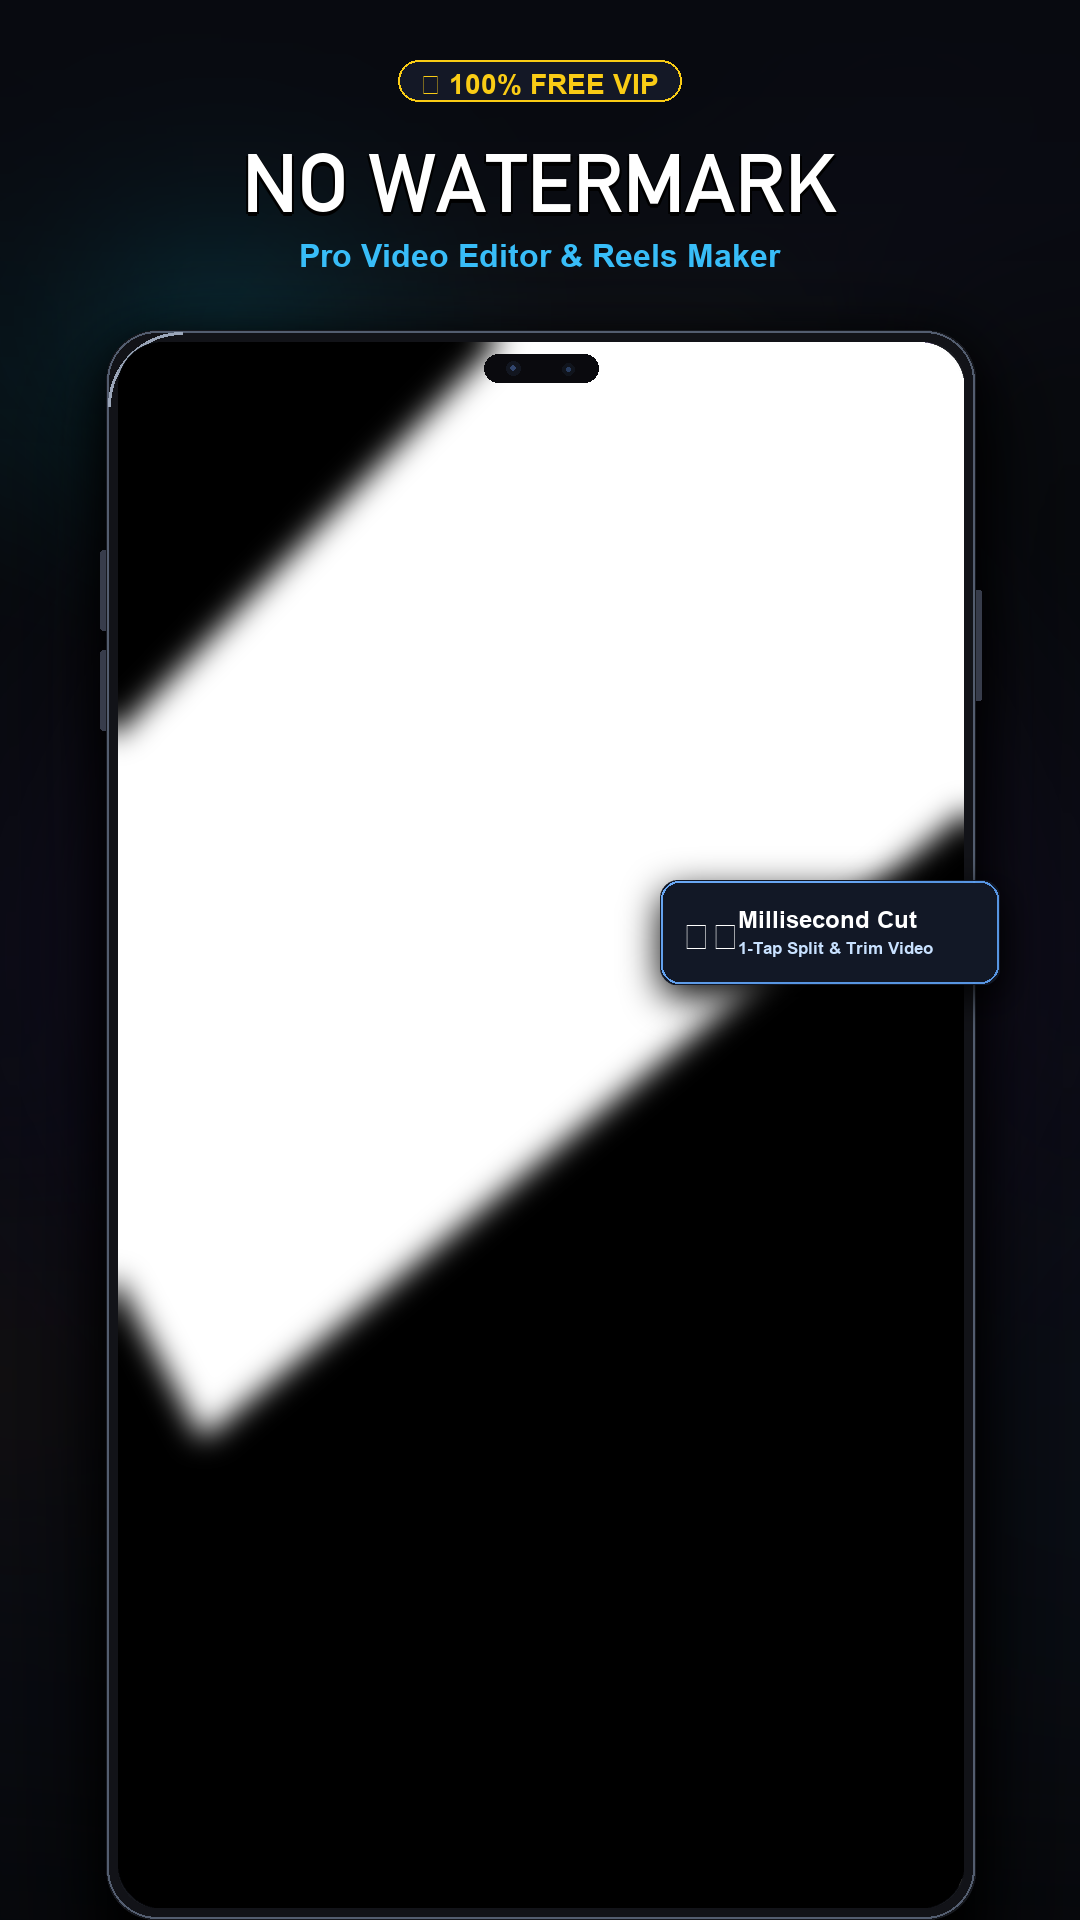
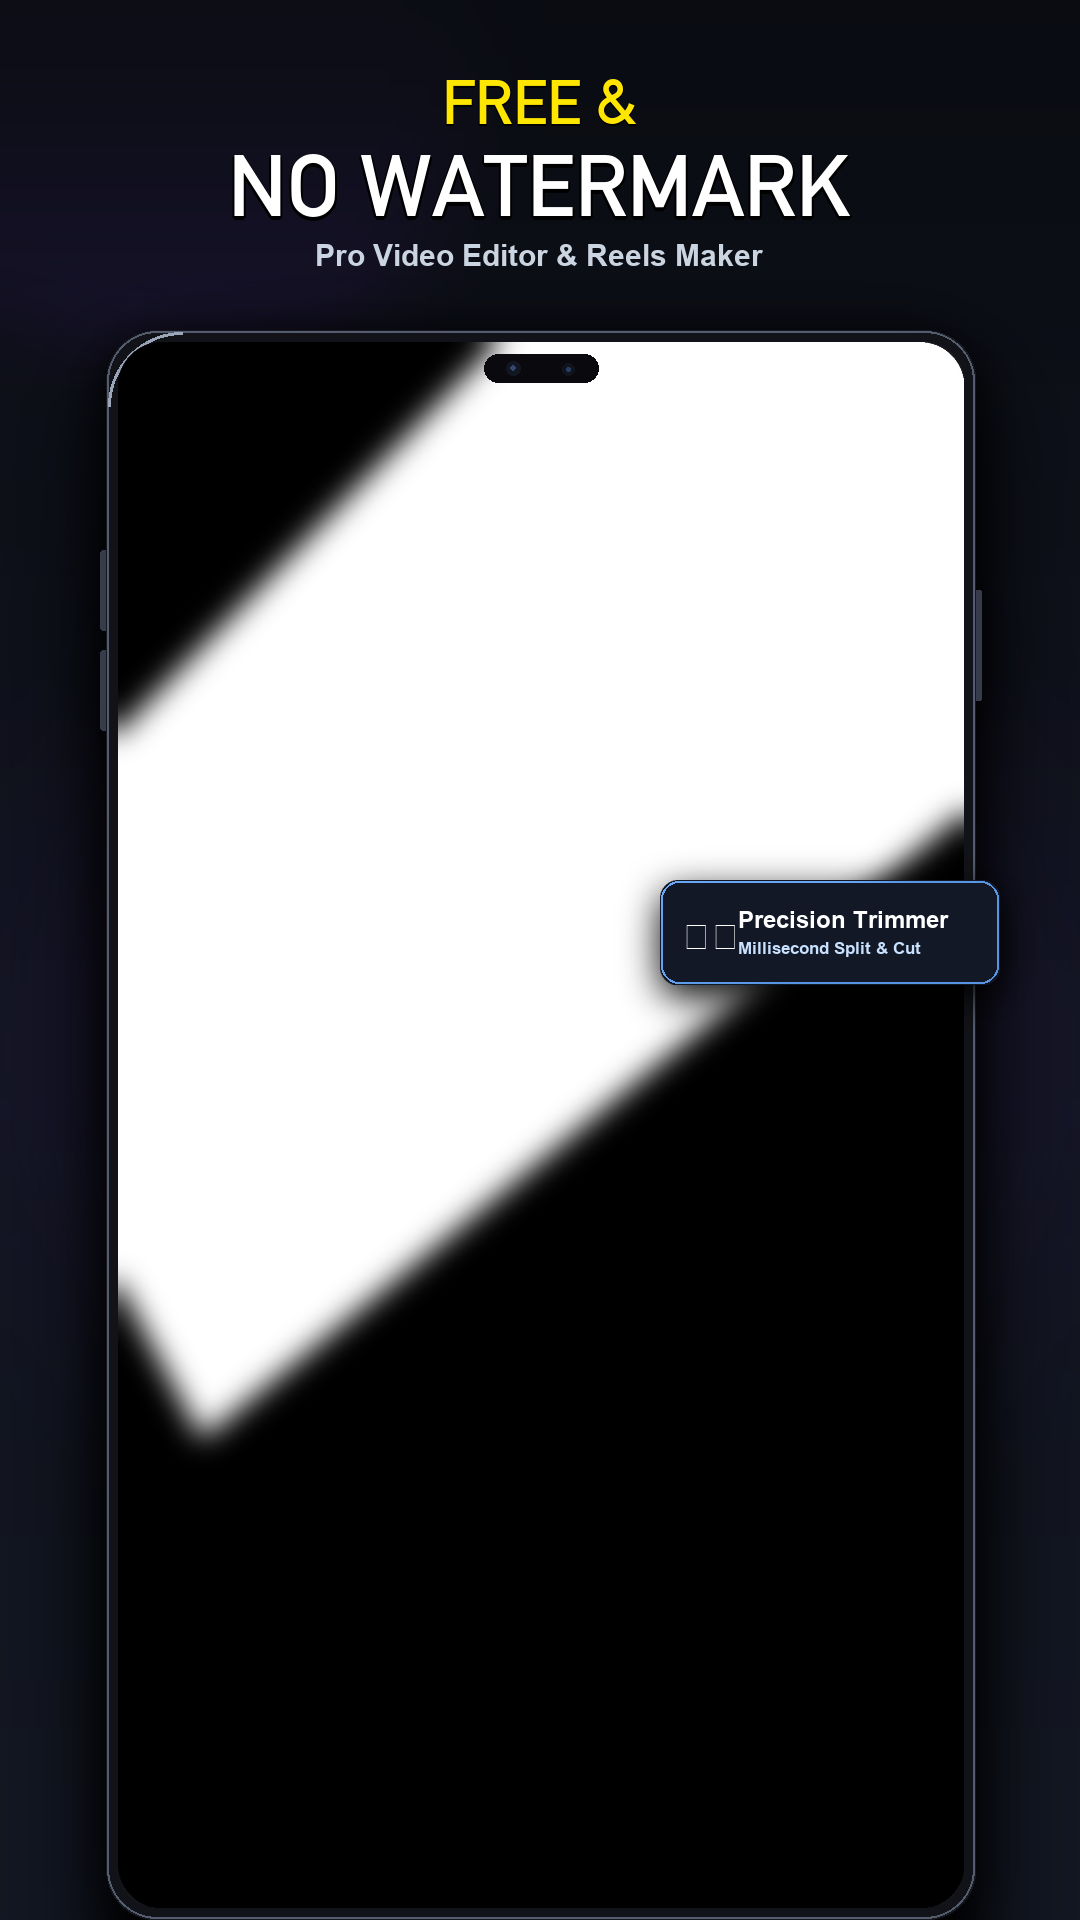
feat(store): generate exact YouCut-style Play Store screenshots with accent top line, massive 86pt white headline, real device frames, and floating callouts

Changed region(s): [[0.2139, 0.0312, 0.7944, 0.1562], [0.6722, 0.4688, 0.8861, 0.5]]

diff --git a/play_store_assets/generate_youcut_exact_posters.py b/play_store_assets/generate_youcut_exact_posters.py
@@ -1,0 +1,314 @@
+import os, sys, math
+from PIL import Image, ImageDraw, ImageFilter, ImageFont, ImageEnhance
+
+BRAIN_DIR = '/Users/pritamsharma/.gemini/antigravity/brain/1924d82f-8c85-4f77-96d0-28de4bd5bc32'
+OUT_DIR = '/Users/pritamsharma/Downloads/video_editor_app/play_store_assets/screenshots'
+DOWNLOADS_OUT = '/Users/pritamsharma/Downloads/VidCut_PlayStore_Assets/screenshots'
+ASSETS_DIR = '/Users/pritamsharma/Downloads/video_editor_app/play_store_assets'
+DOWNLOADS_ROOT = '/Users/pritamsharma/Downloads/VidCut_PlayStore_Assets'
+
+os.makedirs(OUT_DIR, exist_ok=True)
+os.makedirs(DOWNLOADS_OUT, exist_ok=True)
+
+FONT_TITLE = '/System/Library/Fonts/Supplemental/DIN Alternate Bold.ttf'
+FONT_SUB = '/System/Library/Fonts/Supplemental/Arial Bold.ttf'
+FONT_BADGE = '/System/Library/Fonts/Supplemental/Arial Bold.ttf'
+
+CANVAS_W, CANVAS_H = 1080, 1920
+
+def fit_crop(img, tw, th):
+    sw, sh = img.size
+    scale = max(tw / float(sw), th / float(sh))
+    nw, nh = int(sw * scale), int(sh * scale)
+    scaled = img.resize((nw, nh), Image.Resampling.LANCZOS)
+    cx = (nw - tw) // 2
+    cy = (nh - th) // 2
+    return scaled.crop((cx, cy, cx + tw, cy + th))
+
+def create_youcut_bg(accent_glow_color):
+    # Dark charcoal / obsidian background (Signature YouCut dark theme)
+    bg = Image.new('RGBA', (CANVAS_W, CANVAS_H), (13, 15, 23, 255))
+    
+    # Smooth vertical mesh gradient
+    for y in range(CANVAS_H):
+        r = int(12 + (20 - 12) * (y / CANVAS_H))
+        g = int(14 + (24 - 14) * (y / CANVAS_H))
+        b = int(22 + (36 - 22) * (y / CANVAS_H))
+        ImageDraw.Draw(bg).line([(0, y), (CANVAS_W, y)], fill=(r, g, b, 255))
+        
+    # Volumetric ambient backlight glow behind phone
+    glow_layer = Image.new('RGBA', (CANVAS_W, CANVAS_H), (0, 0, 0, 0))
+    d = ImageDraw.Draw(glow_layer)
+    cx, cy = 540, 1050
+    radius = 680
+    r_val, g_val, b_val, a_max = accent_glow_color
+    for i in range(35, 0, -1):
+        cur_r = int(radius * (i / 35.0))
+        alpha = int(a_max * (1.0 - (i / 35.0))**1.7)
+        d.ellipse([cx - cur_r, cy - cur_r, cx + cur_r, cy + cur_r], fill=(r_val, g_val, b_val, alpha))
+    glow_layer = glow_layer.filter(ImageFilter.GaussianBlur(40))
+    bg = Image.alpha_composite(bg, glow_layer)
+    
+    # Secondary ambient fill at top
+    top_glow = Image.new('RGBA', (CANVAS_W, CANVAS_H), (0, 0, 0, 0))
+    td = ImageDraw.Draw(top_glow)
+    td.ellipse([200 - 300, 100 - 300, 200 + 300, 100 + 300], fill=(r_val, g_val, b_val, int(a_max * 0.25)))
+    top_glow = top_glow.filter(ImageFilter.GaussianBlur(50))
+    bg = Image.alpha_composite(bg, top_glow)
+    
+    # Gradient fade at top for punchy text legibility
+    fade = Image.new('RGBA', (CANVAS_W, CANVAS_H), (0, 0, 0, 0))
+    f_draw = ImageDraw.Draw(fade)
+    for y in range(420):
+        a = int(230 * (1.0 - (y / 420.0)**1.3))
+        f_draw.line([(0, y), (CANVAS_W, y)], fill=(10, 12, 18, a))
+    bg = Image.alpha_composite(bg, fade)
+    return bg
+
+def build_youcut_phone(screen_img, target_w=870, target_h=1590, radius=50, bezel=12):
+    phone_w = target_w
+    phone_h = target_h
+    inner_w = phone_w - (bezel * 2)
+    inner_h = phone_h - (bezel * 2)
+    inner_r = radius - (bezel // 2)
+    
+    # Scale real device screenshot to inner screen
+    scaled_screen = fit_crop(screen_img, inner_w, inner_h)
+    
+    # Mask
+    screen_mask = Image.new('L', (inner_w * 2, inner_h * 2), 0)
+    ImageDraw.Draw(screen_mask).rounded_rectangle([0, 0, inner_w * 2, inner_h * 2], radius=inner_r * 2, fill=255)
+    screen_mask = screen_mask.resize((inner_w, inner_h), Image.Resampling.LANCZOS)
+    
+    rounded_screen = Image.new('RGBA', (inner_w, inner_h), (0, 0, 0, 0))
+    rounded_screen.paste(scaled_screen, (0, 0))
+    rounded_screen.putalpha(screen_mask)
+    
+    # Glass sheen reflection
+    glass_sheen = Image.new('RGBA', (inner_w, inner_h), (0, 0, 0, 0))
+    g_draw = ImageDraw.Draw(glass_sheen)
+    sheen_poly = [
+        (int(inner_w * 0.45), 0),
+        (inner_w, 0),
+        (inner_w, int(inner_h * 0.3)),
+        (int(inner_w * 0.1), int(inner_h * 0.7)),
+        (0, int(inner_h * 0.6)),
+        (0, int(inner_h * 0.25))
+    ]
+    g_draw.polygon(sheen_poly, fill=(255, 255, 255, 12))
+    glass_sheen = glass_sheen.filter(ImageFilter.GaussianBlur(14))
+    glass_sheen.putalpha(screen_mask)
+    rounded_screen = Image.alpha_composite(rounded_screen, glass_sheen)
+    
+    # Phone chassis with side buttons
+    button_w = 6
+    total_w = phone_w + button_w * 2
+    total_h = phone_h
+    
+    body = Image.new('RGBA', (total_w, total_h), (0, 0, 0, 0))
+    b_draw = ImageDraw.Draw(body)
+    b_draw.rounded_rectangle([0, 220, button_w + 3, 300], radius=3, fill=(55, 60, 75, 255))
+    b_draw.rounded_rectangle([0, 320, button_w + 3, 400], radius=3, fill=(55, 60, 75, 255))
+    b_draw.rounded_rectangle([total_w - button_w - 3, 260, total_w, 370], radius=3, fill=(55, 60, 75, 255))
+    
+    c_mask = Image.new('L', (phone_w * 2, phone_h * 2), 0)
+    ImageDraw.Draw(c_mask).rounded_rectangle([0, 0, phone_w * 2, phone_h * 2], radius=radius * 2, fill=255)
+    c_mask = c_mask.resize((phone_w, phone_h), Image.Resampling.LANCZOS)
+    
+    chassis = Image.new('RGBA', (phone_w, phone_h), (22, 24, 30, 255))
+    chassis.putalpha(c_mask)
+    
+    rim_layer = Image.new('RGBA', (phone_w, phone_h), (0, 0, 0, 0))
+    r_draw = ImageDraw.Draw(rim_layer)
+    r_draw.rounded_rectangle([1, 1, phone_w - 2, phone_h - 2], radius=radius, outline=(90, 100, 120, 230), width=2)
+    r_draw.rounded_rectangle([3, 3, phone_w - 4, phone_h - 4], radius=radius - 2, outline=(18, 19, 24, 255), width=bezel - 3)
+    r_draw.arc([2, 2, radius * 3, radius * 3], start=180, end=270, fill=(210, 225, 250, 180), width=3)
+    
+    chassis = Image.alpha_composite(chassis, rim_layer)
+    chassis.paste(rounded_screen, (bezel, bezel), rounded_screen)
+    
+    # Dynamic Island
+    island_w, island_h = 114, 28
+    island_x = (phone_w - island_w) // 2
+    island_y = bezel + 12
+    i_draw = ImageDraw.Draw(chassis)
+    i_draw.rounded_rectangle([island_x, island_y, island_x + island_w, island_y + island_h], radius=14, fill=(10, 10, 14, 255))
+    i_draw.ellipse([island_x + 22, island_y + 7, island_x + 36, island_y + 21], fill=(18, 22, 32, 255))
+    i_draw.ellipse([island_x + 26, island_y + 11, island_x + 31, island_y + 16], fill=(50, 70, 110, 255))
+    i_draw.ellipse([island_x + 78, island_y + 9, island_x + 90, island_y + 21], fill=(16, 20, 28, 255))
+    i_draw.ellipse([island_x + 82, island_y + 13, island_x + 86, island_y + 17], fill=(40, 60, 95, 255))
+    
+    body.paste(chassis, (button_w, 0), chassis)
+    return body
+
+def create_floating_callout(icon_str, title_str, sub_str, bg_color, border_color):
+    cw, ch = 340, 105
+    card = Image.new('RGBA', (cw, ch), (0, 0, 0, 0))
+    c_mask = Image.new('L', (cw * 2, ch * 2), 0)
+    ImageDraw.Draw(c_mask).rounded_rectangle([0, 0, cw * 2, ch * 2], radius=36, fill=255)
+    c_mask = c_mask.resize((cw, ch), Image.Resampling.LANCZOS)
+    
+    c_bg = Image.new('RGBA', (cw, ch), bg_color)
+    c_bg.putalpha(c_mask)
+    card = Image.alpha_composite(card, c_bg)
+    
+    cb_draw = ImageDraw.Draw(card)
+    cb_draw.rounded_rectangle([1, 1, cw - 2, ch - 2], radius=18, outline=border_color, width=2)
+    
+    f_icon = ImageFont.truetype('/System/Library/Fonts/Supplemental/Arial Bold.ttf', 38)
+    f_title = ImageFont.truetype('/System/Library/Fonts/Supplemental/Arial Bold.ttf', 24)
+    f_sub = ImageFont.truetype('/System/Library/Fonts/Supplemental/Arial Bold.ttf', 17)
+    
+    cb_draw.text((22, 34), icon_str, font=f_icon, fill=(255, 255, 255))
+    cb_draw.text((78, 26), title_str, font=f_title, fill=(255, 255, 255))
+    cb_draw.text((78, 58), sub_str, font=f_sub, fill=(200, 225, 255))
+    return card
+
+def render_youcut_style_slide(real_screen_path, callout_card, callout_pos,
+                              line1_text, line1_color,
+                              line2_text,
+                              subtitle_text,
+                              glow_color, out_name):
+    real_screen = Image.open(real_screen_path).convert('RGBA')
+    bg = create_youcut_bg(glow_color)
+    phone = build_youcut_phone(real_screen, target_w=870, target_h=1590, radius=50, bezel=12)
+    phone_x, phone_y = 100, 330
+    
+    # Shadows
+    c_shadow = Image.new('RGBA', (CANVAS_W, CANVAS_H), (0, 0, 0, 0))
+    p_alpha = phone.split()[-1]
+    c_fill = Image.new('RGBA', phone.size, (0, 0, 0, 220))
+    c_fill.putalpha(p_alpha)
+    c_shadow.paste(c_fill, (phone_x, phone_y + 14), c_fill)
+    c_shadow = c_shadow.filter(ImageFilter.GaussianBlur(22))
+    bg = Image.alpha_composite(bg, c_shadow)
+    
+    d_shadow = Image.new('RGBA', (CANVAS_W, CANVAS_H), (0, 0, 0, 0))
+    d_fill = Image.new('RGBA', phone.size, (0, 0, 0, 150))
+    d_fill.putalpha(p_alpha)
+    d_shadow.paste(d_fill, (phone_x, phone_y + 38), d_fill)
+    d_shadow = d_shadow.filter(ImageFilter.GaussianBlur(50))
+    bg = Image.alpha_composite(bg, d_shadow)
+    
+    bg.paste(phone, (phone_x, phone_y), phone)
+    
+    # Popout card
+    if callout_card and callout_pos:
+        cx, cy = callout_pos
+        b_shadow = Image.new('RGBA', (CANVAS_W, CANVAS_H), (0, 0, 0, 0))
+        b_alpha = callout_card.split()[-1]
+        b_fill = Image.new('RGBA', callout_card.size, (0, 0, 0, 170))
+        b_fill.putalpha(b_alpha)
+        b_shadow.paste(b_fill, (cx, cy + 12), b_fill)
+        b_shadow = b_shadow.filter(ImageFilter.GaussianBlur(18))
+        bg = Image.alpha_composite(bg, b_shadow)
+        bg.paste(callout_card, (cx, cy), callout_card)
+        
+    # Typography: Signature YouCut Google Play Style
+    draw = ImageDraw.Draw(bg)
+    f_line1 = ImageFont.truetype(FONT_TITLE, 62)
+    f_line2 = ImageFont.truetype(FONT_TITLE, 86)
+    f_sub = ImageFont.truetype(FONT_SUB, 30)
+    
+    # Line 1: Accent Color (Centered at y = 65)
+    bb1 = f_line1.getbbox(line1_text)
+    w1 = bb1[2] - bb1[0]
+    x1 = (CANVAS_W - w1) // 2
+    for ox, oy in [(-1,1), (1,1), (0,2)]:
+        draw.text((x1 + ox, 65 + oy), line1_text, font=f_line1, fill=(0, 0, 0, 200))
+    draw.text((x1, 65), line1_text, font=f_line1, fill=line1_color)
+    
+    # Line 2: Huge Bold White (Centered at y = 135)
+    bb2 = f_line2.getbbox(line2_text)
+    w2 = bb2[2] - bb2[0]
+    x2 = (CANVAS_W - w2) // 2
+    for ox, oy in [(-2,2), (2,2), (0,3), (0,4)]:
+        draw.text((x2 + ox, 135 + oy), line2_text, font=f_line2, fill=(0, 0, 0, 240))
+    draw.text((x2, 135), line2_text, font=f_line2, fill=(255, 255, 255))
+    
+    # Line 3: Clean Subtitle (Centered at y = 238)
+    bb3 = f_sub.getbbox(subtitle_text)
+    w3 = bb3[2] - bb3[0]
+    x3 = (CANVAS_W - w3) // 2
+    draw.text((x3, 238), subtitle_text, font=f_sub, fill=(203, 213, 225))
+    
+    # Save outputs
+    bg_rgb = bg.convert('RGB')
+    bg_rgb.save(os.path.join(OUT_DIR, out_name), quality=96)
+    bg_rgb.save(os.path.join(DOWNLOADS_OUT, out_name), quality=96)
+    bg_rgb.save(os.path.join(BRAIN_DIR, out_name), quality=96)
+    print("Saved YouCut style slide:", out_name)
+
+print("Starting generation of YouCut style Google Play screenshot cards...")
+
+# ==============================================================================
+# Slide 1: FREE & NO WATERMARK
+# ==============================================================================
+c1 = create_floating_callout("✂", "Precision Trimmer", "Millisecond Split & Cut", (18, 24, 38, 235), (96, 165, 250, 230))
+render_youcut_style_slide(os.path.join(BRAIN_DIR, 'fresh_editor.png'), c1, (660, 880),
+                          "FREE &", (255, 230, 0), # YouCut Signature Bright Yellow
+                          "NO WATERMARK",
+                          "Pro Video Editor & Reels Maker",
+                          (124, 58, 237, 130), 'screenshot_1_hero_editor.png')
+
+# ==============================================================================
+# Slide 2: 50+ DYNAMIC TRANSITION EFFECTS
+# ==============================================================================
+c2 = create_floating_callout("🔀", "1-Tap Apply to All", "Cross Dissolve, Glitch & Zoom", (15, 28, 48, 235), (56, 189, 248, 230))
+render_youcut_style_slide(os.path.join(BRAIN_DIR, 'fresh_transitions.png'), c2, (660, 820),
+                          "50+ DYNAMIC", (0, 229, 255), # Vivid Cyan
+                          "TRANSITION EFFECTS",
+                          "Glitch, Zoom, Dissolve & 1-Tap Apply All",
+                          (37, 99, 235, 130), 'screenshot_2_transitions.png')
+
+# ==============================================================================
+# Slide 3: SMOOTH SLOW MOTION & SPEED
+# ==============================================================================
+c3 = create_floating_callout("🏎", "Bullet Time 0.2x", "Montage & Hero Speed Curves", (38, 22, 14, 235), (251, 146, 60, 230))
+render_youcut_style_slide(os.path.join(BRAIN_DIR, 'fresh_velocity.png'), c3, (660, 820),
+                          "SMOOTH", (255, 87, 34), # YouCut Vivid Orange
+                          "SLOW MOTION & SPEED",
+                          "Velocity Curve Ramping 0.2x – 4.0x",
+                          (234, 88, 12, 130), 'screenshot_3_velocity_curves.png')
+
+# ==============================================================================
+# Slide 4: EXTRACT & ADD MUSIC & SOUND FX
+# ==============================================================================
+c4 = create_floating_callout("🎙", "Video Audio Ripper", "Extract Sound Directly from Video", (40, 16, 28, 235), (244, 114, 182, 230))
+render_youcut_style_slide(os.path.join(BRAIN_DIR, 'fresh_audio.png'), c4, (660, 820),
+                          "EXTRACT & ADD", (255, 64, 129), # Vivid Pink
+                          "MUSIC & SOUND FX",
+                          "Rip Audio from Video • 1-Tap Mute Sound",
+                          (225, 29, 72, 130), 'screenshot_4_audio_extractor.png')
+
+# ==============================================================================
+# Slide 5: PRO GRADE CINEMATIC FILTERS & FX
+# ==============================================================================
+c5 = create_floating_callout("🎨", "Cinema Color LUT", "Hollywood Teal & Orange 90s", (40, 26, 14, 235), (251, 191, 36, 230))
+render_youcut_style_slide(os.path.join(BRAIN_DIR, 'fresh_filters.png'), c5, (660, 820),
+                          "PRO GRADE", (255, 193, 7), # Vivid Amber Gold
+                          "CINEMATIC FILTERS & FX",
+                          "Teal & Orange, Cyberpunk & 90s Vintage",
+                          (217, 119, 6, 130), 'screenshot_5_lut_filters.png')
+
+# ==============================================================================
+# Slide 6: ULTRA HD 4K 60FPS EXPORT
+# ==============================================================================
+c6 = create_floating_callout("💎", "4K 60FPS Ultra HD", "Hardware Encoded • Zero Watermark", (14, 38, 30, 235), (52, 211, 153, 230))
+render_youcut_style_slide(os.path.join(BRAIN_DIR, 'fresh_export.png'), c6, (660, 820),
+                          "ULTRA HD", (0, 230, 118), # Vivid Emerald Green
+                          "4K 60FPS EXPORT",
+                          "High Bitrate • 100% Free Forever",
+                          (5, 150, 105, 130), 'screenshot_6_4k_export.png')
+
+# ==============================================================================
+# Slide 7: PHOTOS TO VIDEO SLIDESHOW & REELS
+# ==============================================================================
+c7 = create_floating_callout("🚀", "1-Tap Viral Presets", "Turn Photos into Trending Reels", (32, 18, 45, 235), (216, 180, 254, 230))
+render_youcut_style_slide(os.path.join(BRAIN_DIR, 'fresh_home.png'), c7, (660, 820),
+                          "PHOTOS TO VIDEO", (190, 80, 255), # Vivid Purple
+                          "SLIDESHOW & REELS",
+                          "1-Tap Viral Themes & Beat Sync",
+                          (147, 51, 234, 130), 'screenshot_7_reels_slideshow.png')
+
+print("ALL 7 YOUCUT-STYLE GOOGLE PLAY STORE SCREENSHOTS GENERATED SUCCESSFULLY!")
